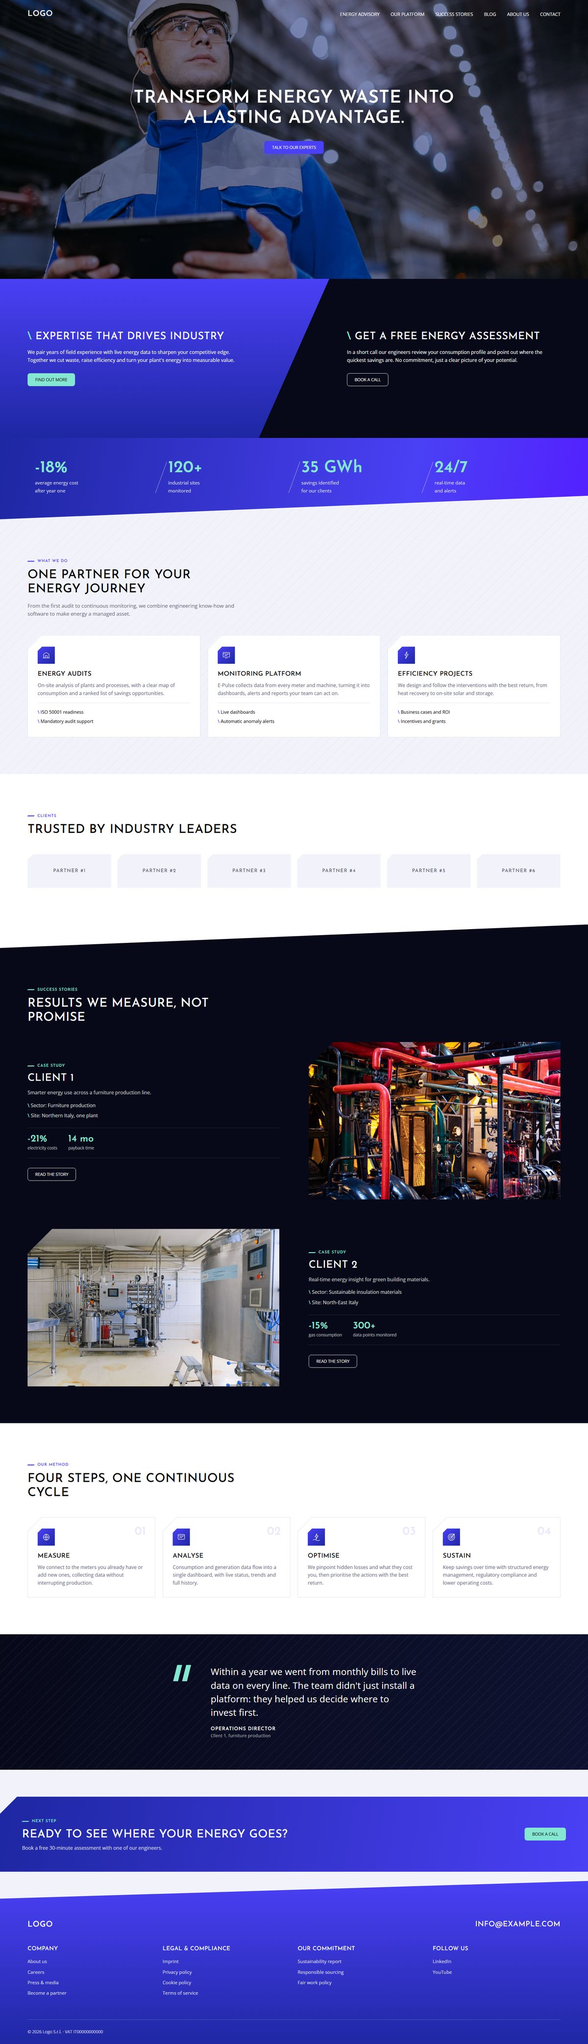
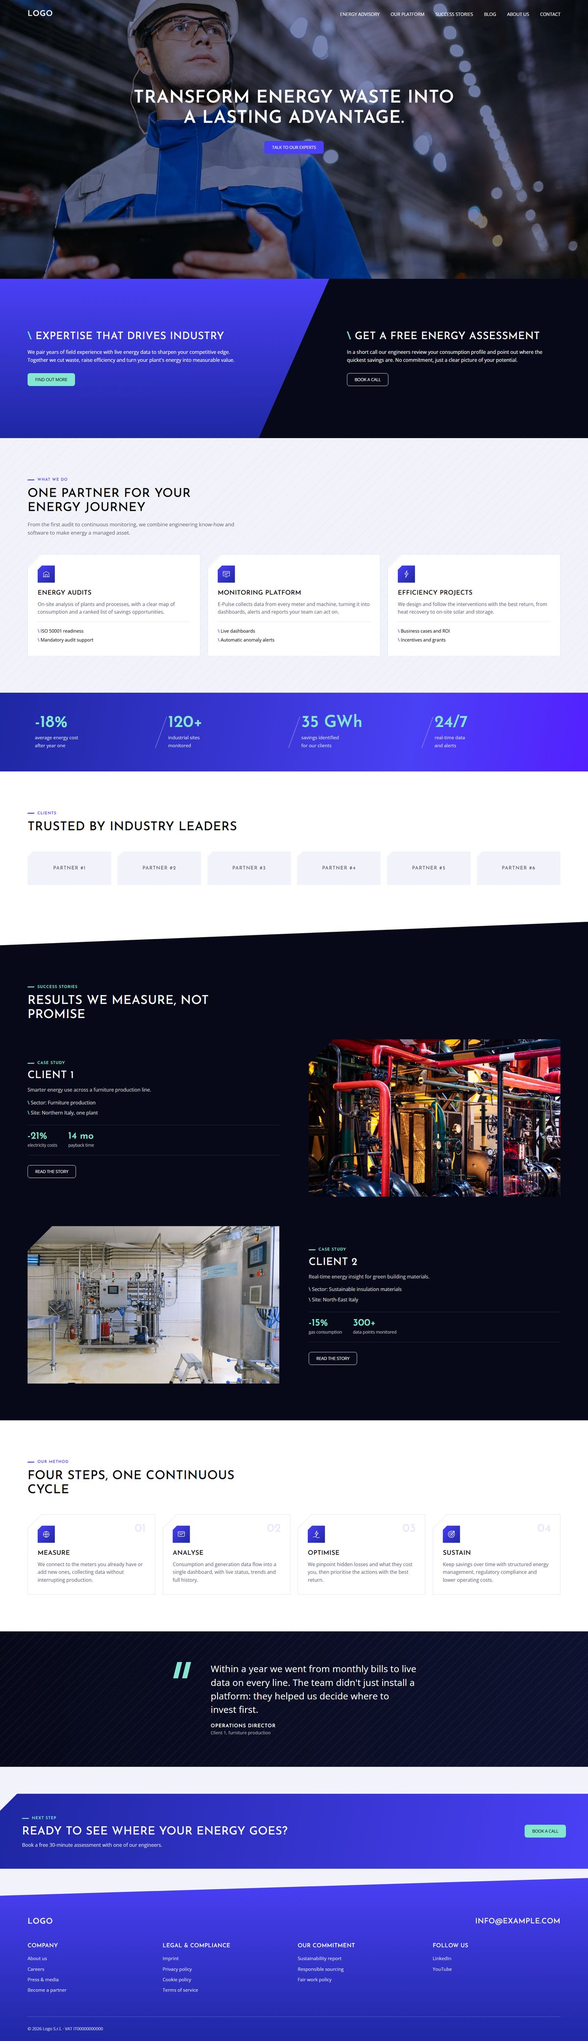
Industrial demo: key figures below services, straight band edges

diff --git a/energia/assets/css/main.css b/energia/assets/css/main.css
@@ -1,1 +1,1 @@
-*,*::before,*::after{box-sizing:border-box}html{scroll-behavior:smooth}body{margin:0;background:#fff;color:#000;font:400 16px/1.6 "Open Sans",system-ui,sans-serif;-webkit-font-smoothing:antialiased}img{display:block;max-width:100%;height:auto}a{color:inherit}p{margin:0 0 1em}h1,h2,h3{margin:0;font-family:"Josefin Sans",sans-serif;font-weight:500;text-transform:uppercase;letter-spacing:.02em;line-height:1.15}.btn{position:relative;z-index:0;display:inline-flex;align-items:center;overflow:hidden;padding:13px 24px;border:1px solid rgba(0,0,0,0);border-radius:8px;font:400 .85rem/1 "Open Sans",system-ui,sans-serif;text-transform:uppercase;text-decoration:none;transition:transform .3s ease,color .3s ease,background-color .3s ease,border-color .3s ease}.btn::before{content:"";position:absolute;inset:0;z-index:-1;background:linear-gradient(90deg, #85e6d1, #5420ff);opacity:0;transition:opacity .5s}.btn::after{display:inline-block;width:0;overflow:hidden;opacity:0;transition:width .3s ease,opacity .3s ease,transform .3s ease}.btn:hover{transform:scale(1.05)}.btn:hover::after{width:20px;opacity:1;transform:translateX(10px)}.btn--violet{background:#4a40f5;color:#fff;box-shadow:0 8px 20px rgba(74,64,245,.3)}.btn--violet:hover{color:#fff}.btn--violet:hover::before{opacity:1}.btn--teal{background:#85e6d1;color:#000}.btn--teal:hover{color:#fff}.btn--teal:hover::before{opacity:1}.btn--outline,.btn--ghost{border-color:#fff;background:rgba(0,0,0,0);color:#fff}.btn--outline::before,.btn--ghost::before{display:none}.btn--outline:hover,.btn--ghost:hover{border-color:#85e6d1;background:#85e6d1;color:#000}.slash::before{content:"\\ ";color:#85e6d1;font-weight:600}.slash--violet::before{color:#4a40f5}.kicker{display:block;margin-bottom:20px;font:600 .8rem/1 "Josefin Sans",sans-serif;letter-spacing:.04em;text-transform:uppercase;color:#85e6d1}.kicker--violet{color:#4a40f5;font-weight:400}.header{position:absolute;inset:0 0 auto;z-index:10;color:#fff}.header__inner{display:flex;align-items:center;justify-content:space-between;padding:28px clamp(20px,4.7vw,90px)}.header__toggle{display:flex;flex-direction:column;gap:5px;padding:10px;border:0;background:none;cursor:pointer}.header__toggle span{width:24px;height:2px;background:#fff}@media(min-width: 1100px){.header__toggle{display:none}}.header__nav{display:none;position:absolute;top:90px;left:0;right:0;flex-direction:column;padding:12px clamp(20px,4.7vw,90px) 20px;background:rgba(0,0,0,.92)}.header__nav.is-open{display:flex}@media(min-width: 1100px){.header__nav{display:flex;position:static;flex-direction:row;gap:36px;padding:0;background:none}}.header__nav a{padding:8px 0;font:400 .92rem "Open Sans",system-ui,sans-serif;text-transform:uppercase;text-decoration:none}.header__nav a:hover{color:#85e6d1}.logo{font:600 1.6rem/1 "Josefin Sans",sans-serif;letter-spacing:.04em;text-transform:uppercase;text-decoration:none}.hero{display:flex;flex-direction:column;align-items:center;justify-content:center;gap:40px;min-height:600px;padding:140px 20px 80px;text-align:center;color:#fff;background:linear-gradient(rgba(10, 30, 110, 0.55), rgba(10, 30, 110, 0.55)),url("../img/hero.jpg") center 30%/cover;background-blend-mode:multiply}@media(min-width: 1100px){.hero{min-height:910px;padding-bottom:260px}}.hero h1{font-size:clamp(2rem,4.2vw,3.6rem);font-weight:600;text-shadow:0 2px 20px rgba(0,0,0,.3)}.insight{display:grid;background:#070919}@media(min-width: 1100px){.insight{grid-template-columns:1fr 1fr;min-height:520px}}.insight__panel{display:flex;flex-direction:column;justify-content:center;align-items:flex-start;padding:64px clamp(20px,4.7vw,90px);background:linear-gradient(180deg, #4a40f5, #1e27a2);color:#fff}@media(min-width: 1100px){.insight__panel{grid-column:1/3;grid-row:1;width:56%;padding-right:calc(12% + 3vw);clip-path:polygon(0 0, 100% 0, 78.57% 100%, 0 100%)}}.insight__panel h2{margin-bottom:18px;font-size:clamp(1.5rem,2.2vw,2.1rem)}.insight__panel p{margin:0 0 30px;font-size:1rem}.insight__cta{display:flex;flex-direction:column;justify-content:center;align-items:flex-start;gap:28px;padding:56px clamp(20px,4.7vw,90px)}@media(min-width: 1100px){.insight__cta{grid-column:1/3;grid-row:1;padding:0 clamp(20px,4.7vw,90px) 0 calc(56% + 3vw)}}.insight__cta{color:#fff}.insight__cta h2{font-size:clamp(1.5rem,2.2vw,2.1rem)}.insight__cta p{margin:-10px 0 2px;font-size:1rem}.wrap{width:100%;max-width:1920px;margin:0 auto;padding:0 clamp(20px,4.7vw,90px)}.section{position:relative;padding:88px 0}@media(min-width: 1100px){.section{padding:120px 0}}.section--mist{background:repeating-linear-gradient(135deg, rgba(74, 64, 245, 0.035) 0 2px, transparent 2px 22px),#f2f3fa}.section--dark{background:#070919;color:#fff}.head{max-width:720px;margin-bottom:56px}.head h2{font-size:clamp(1.7rem,2.6vw,2.5rem)}.head h2+p{margin:18px 0 0;color:#5b6078;font-size:1.05rem}.section--dark .head h2+p{color:rgba(255,255,255,.7)}.head--row{display:flex;flex-wrap:wrap;align-items:flex-end;justify-content:space-between;gap:16px;max-width:none}.kicker{display:inline-flex;align-items:center;gap:10px;margin-bottom:16px;color:#4a40f5;font-weight:600;letter-spacing:.08em}.kicker::before{content:"";width:22px;height:3px;background:currentColor;transform:skewX(-35deg)}.section--dark .kicker,.kicker--teal{color:#85e6d1}.grid{display:grid;gap:24px}@media(min-width: 768px){.grid--3{grid-template-columns:repeat(2, 1fr)}}@media(min-width: 1100px){.grid--3{grid-template-columns:repeat(3, 1fr)}}@media(min-width: 768px){.grid--4{grid-template-columns:repeat(2, 1fr)}}@media(min-width: 1100px){.grid--4{grid-template-columns:repeat(4, 1fr)}}.stats{position:relative;z-index:1;margin-top:-1px;padding:72px 0 80px;background:linear-gradient(100deg, #1e27a2, #4a40f5 70%, #5420ff);color:#fff;clip-path:polygon(0 0, 100% 0, 100% calc(100% - 4vw), 0 100%)}.stats__grid{display:grid;grid-template-columns:repeat(2, 1fr);gap:36px 0}@media(min-width: 1100px){.stats__grid{grid-template-columns:repeat(4, 1fr)}}.stat{position:relative;padding:0 24px}.stat+.stat::before{content:"";position:absolute;left:0;top:6px;bottom:6px;width:2px;background:rgba(255,255,255,.35);transform:skewX(-20deg)}@media(max-width: 1099px){.stat:nth-child(3)::before{display:none}}.stat strong{display:block;margin-bottom:8px;font:600 clamp(2.2rem, 3.6vw, 3.4rem)/1 "Josefin Sans",sans-serif;color:#85e6d1}.stat span{font-size:.95rem;color:rgba(255,255,255,.85)}.stats+.section{margin-top:-4vw;padding-top:calc(88px + 4vw)}@media(min-width: 1100px){.stats+.section{padding-top:calc(120px + 4vw)}}.tile,.step{position:relative;padding:36px 32px 34px;border:1px solid #dfe1ef;background:#fff;clip-path:polygon(44px 0, 100% 0, 100% 100%, 0 100%, 0 44px);transition:transform .3s ease,box-shadow .3s ease}.tile::before,.step::before{content:"";position:absolute;top:0;left:0;width:62.216px;height:1px;background:#dfe1ef;transform:rotate(-45deg);transform-origin:0 0;translate:0 44px}.tile::after,.step::after{content:"";position:absolute;top:0;left:44px;right:0;height:3px;background:linear-gradient(90deg, #4a40f5, #85e6d1);transform:scaleX(0);transform-origin:left;transition:transform .4s ease}.tile:hover,.step:hover{transform:translateY(-4px);box-shadow:0 18px 40px rgba(30,39,162,.12)}.tile:hover::after,.step:hover::after{transform:scaleX(1)}.tile h3,.step h3{margin:22px 0 12px;font-size:1.3rem}.tile p,.step p{margin:0;color:#5b6078}.tile ul,.step ul{margin:18px 0 0;padding:18px 0 0;border-top:1px solid #dfe1ef;list-style:none;font-size:.92rem}.tile ul li,.step ul li{margin-bottom:6px}.tile ul li::before,.step ul li::before{content:"\\ ";color:#4a40f5;font-weight:700}.tile__icon{display:grid;place-items:center;width:56px;height:56px;background:linear-gradient(135deg, #4a40f5, #1e27a2);clip-path:polygon(14px 0, 100% 0, 100% 100%, 0 100%, 0 14px)}.tile__icon svg{width:28px;height:28px;fill:none;stroke:#fff;stroke-width:1.6;stroke-linecap:round;stroke-linejoin:round}.step__num{position:absolute;top:28px;right:30px;font:600 2.4rem/1 "Josefin Sans",sans-serif;color:rgba(74,64,245,.14)}.clients__grid{display:grid;grid-template-columns:repeat(2, 1fr);gap:20px;margin:0;padding:0;list-style:none}@media(min-width: 768px){.clients__grid{grid-template-columns:repeat(3, 1fr)}}@media(min-width: 1100px){.clients__grid{grid-template-columns:repeat(6, 1fr)}}.partner{display:grid;place-items:center;aspect-ratio:5/2;background:#f2f3fa;font:500 1rem/1 "Josefin Sans",sans-serif;letter-spacing:.08em;text-transform:uppercase;color:#5b6078;clip-path:polygon(18px 0, 100% 0, 100% 100%, 0 100%, 0 18px);transition:background-color .3s ease,color .3s ease}.partner:hover{background:#4a40f5;color:#fff}.cases{clip-path:polygon(0 4vw, 100% 0, 100% 100%, 0 100%);padding-top:calc(88px + 4vw)}@media(min-width: 1100px){.cases{padding-top:calc(120px + 4vw)}}.case{display:grid;gap:36px;align-items:center}.case+.case{margin-top:96px}@media(min-width: 1100px){.case{grid-template-columns:1fr 1fr;gap:96px}}.case h3{margin-bottom:14px;font-size:2.1rem}.case p{color:rgba(255,255,255,.8)}.case__facts{margin:0 0 26px;padding:0;list-style:none}.case__facts li{margin-bottom:8px;color:rgba(255,255,255,.85)}.case__facts li::before{content:"\\ ";color:#85e6d1;font-weight:700}.case__metrics{display:flex;gap:36px;margin-bottom:32px;padding:20px 0;border-top:1px solid rgba(255,255,255,.15);border-bottom:1px solid rgba(255,255,255,.15)}.case__metrics strong{display:block;font:600 2rem/1 "Josefin Sans",sans-serif;color:#85e6d1}.case__metrics span{font-size:.85rem;color:rgba(255,255,255,.7)}.case__img{width:100%;aspect-ratio:16/10;object-fit:cover;clip-path:polygon(80px 0, 100% 0, 100% 100%, 0 100%, 0 80px)}@media(min-width: 1100px){.case--reverse .case__text{order:2}}.process{background:#fff}.quote{padding:100px 0;background:repeating-linear-gradient(135deg, rgba(255, 255, 255, 0.05) 0 2px, transparent 2px 22px),linear-gradient(100deg, #070919, #0e1230);color:#fff}.quote__inner{display:grid;gap:28px;max-width:980px}@media(min-width: 1100px){.quote__inner{grid-template-columns:80px 1fr;gap:48px}}.quote__mark{width:64px;fill:#85e6d1}.quote blockquote{margin:0}.quote p{margin:0 0 24px;font:400 clamp(1.3rem, 2.2vw, 1.9rem)/1.45 "Open Sans",system-ui,sans-serif}.quote footer{display:grid;gap:2px}.quote footer strong{font:600 1rem "Josefin Sans",sans-serif;text-transform:uppercase;letter-spacing:.06em}.quote footer span{color:rgba(255,255,255,.65);font-size:.9rem}.cta-band{padding:88px 0;background:#f2f3fa}.cta-band__inner{display:grid;gap:28px;align-items:center;padding:56px clamp(20px,4.7vw,90px);background:linear-gradient(100deg, #1e27a2, #4a40f5);color:#fff;clip-path:polygon(56px 0, 100% 0, 100% 100%, 0 100%, 0 56px)}@media(min-width: 1100px){.cta-band__inner{grid-template-columns:1fr auto;padding:64px 72px}}.cta-band__inner h2{margin-bottom:10px;font-size:clamp(1.6rem,2.4vw,2.3rem)}.cta-band__inner p{margin:0;color:rgba(255,255,255,.85)}span.btn{cursor:default}.footer{padding:calc(72px + 3vw) 0 40px;background:linear-gradient(180deg, #4a40f5, #1e27a2);color:#fff;clip-path:polygon(0 3vw, 100% 0, 100% 100%, 0 100%);margin-top:-3vw}.footer__top{display:flex;flex-wrap:wrap;align-items:center;justify-content:space-between;gap:20px;margin-bottom:56px}.footer__mail{font:500 clamp(1.1rem, 1.6vw, 1.5rem)/1 "Josefin Sans",sans-serif;text-transform:uppercase;letter-spacing:.03em}.footer__cols{display:grid;gap:40px 24px}@media(min-width: 768px){.footer__cols{grid-template-columns:repeat(2, 1fr)}}@media(min-width: 1100px){.footer__cols{grid-template-columns:repeat(4, 1fr)}}.footer__cols h2{margin-bottom:18px;font-size:1.15rem;font-weight:500}.footer__cols ul{margin:0;padding:0;list-style:none}.footer__cols li{margin-bottom:10px;font-size:.95rem;color:rgba(255,255,255,.85)}.footer__bottom{margin-top:64px;padding-top:28px;border-top:1px solid rgba(255,255,255,.25)}.footer__bottom p{margin:0;font-size:.85rem;color:rgba(255,255,255,.8)}nav a:not([href]){cursor:default}.tile,.step,.partner{cursor:pointer}
+*,*::before,*::after{box-sizing:border-box}html{scroll-behavior:smooth}body{margin:0;background:#fff;color:#000;font:400 16px/1.6 "Open Sans",system-ui,sans-serif;-webkit-font-smoothing:antialiased}img{display:block;max-width:100%;height:auto}a{color:inherit}p{margin:0 0 1em}h1,h2,h3{margin:0;font-family:"Josefin Sans",sans-serif;font-weight:500;text-transform:uppercase;letter-spacing:.02em;line-height:1.15}.btn{position:relative;z-index:0;display:inline-flex;align-items:center;overflow:hidden;padding:13px 24px;border:1px solid rgba(0,0,0,0);border-radius:8px;font:400 .85rem/1 "Open Sans",system-ui,sans-serif;text-transform:uppercase;text-decoration:none;transition:transform .3s ease,color .3s ease,background-color .3s ease,border-color .3s ease}.btn::before{content:"";position:absolute;inset:0;z-index:-1;background:linear-gradient(90deg, #85e6d1, #5420ff);opacity:0;transition:opacity .5s}.btn::after{display:inline-block;width:0;overflow:hidden;opacity:0;transition:width .3s ease,opacity .3s ease,transform .3s ease}.btn:hover{transform:scale(1.05)}.btn:hover::after{width:20px;opacity:1;transform:translateX(10px)}.btn--violet{background:#4a40f5;color:#fff;box-shadow:0 8px 20px rgba(74,64,245,.3)}.btn--violet:hover{color:#fff}.btn--violet:hover::before{opacity:1}.btn--teal{background:#85e6d1;color:#000}.btn--teal:hover{color:#fff}.btn--teal:hover::before{opacity:1}.btn--outline,.btn--ghost{border-color:#fff;background:rgba(0,0,0,0);color:#fff}.btn--outline::before,.btn--ghost::before{display:none}.btn--outline:hover,.btn--ghost:hover{border-color:#85e6d1;background:#85e6d1;color:#000}.slash::before{content:"\\ ";color:#85e6d1;font-weight:600}.slash--violet::before{color:#4a40f5}.kicker{display:block;margin-bottom:20px;font:600 .8rem/1 "Josefin Sans",sans-serif;letter-spacing:.04em;text-transform:uppercase;color:#85e6d1}.kicker--violet{color:#4a40f5;font-weight:400}.header{position:absolute;inset:0 0 auto;z-index:10;color:#fff}.header__inner{display:flex;align-items:center;justify-content:space-between;padding:28px clamp(20px,4.7vw,90px)}.header__toggle{display:flex;flex-direction:column;gap:5px;padding:10px;border:0;background:none;cursor:pointer}.header__toggle span{width:24px;height:2px;background:#fff}@media(min-width: 1100px){.header__toggle{display:none}}.header__nav{display:none;position:absolute;top:90px;left:0;right:0;flex-direction:column;padding:12px clamp(20px,4.7vw,90px) 20px;background:rgba(0,0,0,.92)}.header__nav.is-open{display:flex}@media(min-width: 1100px){.header__nav{display:flex;position:static;flex-direction:row;gap:36px;padding:0;background:none}}.header__nav a{padding:8px 0;font:400 .92rem "Open Sans",system-ui,sans-serif;text-transform:uppercase;text-decoration:none}.header__nav a:hover{color:#85e6d1}.logo{font:600 1.6rem/1 "Josefin Sans",sans-serif;letter-spacing:.04em;text-transform:uppercase;text-decoration:none}.hero{display:flex;flex-direction:column;align-items:center;justify-content:center;gap:40px;min-height:600px;padding:140px 20px 80px;text-align:center;color:#fff;background:linear-gradient(rgba(10, 30, 110, 0.55), rgba(10, 30, 110, 0.55)),url("../img/hero.jpg") center 30%/cover;background-blend-mode:multiply}@media(min-width: 1100px){.hero{min-height:910px;padding-bottom:260px}}.hero h1{font-size:clamp(2rem,4.2vw,3.6rem);font-weight:600;text-shadow:0 2px 20px rgba(0,0,0,.3)}.insight{display:grid;background:#070919}@media(min-width: 1100px){.insight{grid-template-columns:1fr 1fr;min-height:520px}}.insight__panel{display:flex;flex-direction:column;justify-content:center;align-items:flex-start;padding:64px clamp(20px,4.7vw,90px);background:linear-gradient(180deg, #4a40f5, #1e27a2);color:#fff}@media(min-width: 1100px){.insight__panel{grid-column:1/3;grid-row:1;width:56%;padding-right:calc(12% + 3vw);clip-path:polygon(0 0, 100% 0, 78.57% 100%, 0 100%)}}.insight__panel h2{margin-bottom:18px;font-size:clamp(1.5rem,2.2vw,2.1rem)}.insight__panel p{margin:0 0 30px;font-size:1rem}.insight__cta{display:flex;flex-direction:column;justify-content:center;align-items:flex-start;gap:28px;padding:56px clamp(20px,4.7vw,90px)}@media(min-width: 1100px){.insight__cta{grid-column:1/3;grid-row:1;padding:0 clamp(20px,4.7vw,90px) 0 calc(56% + 3vw)}}.insight__cta{color:#fff}.insight__cta h2{font-size:clamp(1.5rem,2.2vw,2.1rem)}.insight__cta p{margin:-10px 0 2px;font-size:1rem}.wrap{width:100%;max-width:1920px;margin:0 auto;padding:0 clamp(20px,4.7vw,90px)}.section{position:relative;padding:88px 0}@media(min-width: 1100px){.section{padding:120px 0}}.section--mist{background:repeating-linear-gradient(135deg, rgba(74, 64, 245, 0.035) 0 2px, transparent 2px 22px),#f2f3fa}.section--dark{background:#070919;color:#fff}.head{max-width:720px;margin-bottom:56px}.head h2{font-size:clamp(1.7rem,2.6vw,2.5rem)}.head h2+p{margin:18px 0 0;color:#5b6078;font-size:1.05rem}.section--dark .head h2+p{color:rgba(255,255,255,.7)}.head--row{display:flex;flex-wrap:wrap;align-items:flex-end;justify-content:space-between;gap:16px;max-width:none}.kicker{display:inline-flex;align-items:center;gap:10px;margin-bottom:16px;color:#4a40f5;font-weight:600;letter-spacing:.08em}.kicker::before{content:"";width:22px;height:3px;background:currentColor;transform:skewX(-35deg)}.section--dark .kicker,.kicker--teal{color:#85e6d1}.grid{display:grid;gap:24px}@media(min-width: 768px){.grid--3{grid-template-columns:repeat(2, 1fr)}}@media(min-width: 1100px){.grid--3{grid-template-columns:repeat(3, 1fr)}}@media(min-width: 768px){.grid--4{grid-template-columns:repeat(2, 1fr)}}@media(min-width: 1100px){.grid--4{grid-template-columns:repeat(4, 1fr)}}.stats{position:relative;z-index:1;margin-top:-1px;padding:72px 0;background:linear-gradient(100deg, #1e27a2, #4a40f5 70%, #5420ff);color:#fff}.stats__grid{display:grid;grid-template-columns:repeat(2, 1fr);gap:36px 0}@media(min-width: 1100px){.stats__grid{grid-template-columns:repeat(4, 1fr)}}.stat{position:relative;padding:0 24px}.stat+.stat::before{content:"";position:absolute;left:0;top:6px;bottom:6px;width:2px;background:rgba(255,255,255,.35);transform:skewX(-20deg)}@media(max-width: 1099px){.stat:nth-child(3)::before{display:none}}.stat strong{display:block;margin-bottom:8px;font:600 clamp(2.2rem, 3.6vw, 3.4rem)/1 "Josefin Sans",sans-serif;color:#85e6d1}.stat span{font-size:.95rem;color:rgba(255,255,255,.85)}.tile,.step{position:relative;padding:36px 32px 34px;border:1px solid #dfe1ef;background:#fff;clip-path:polygon(44px 0, 100% 0, 100% 100%, 0 100%, 0 44px);transition:transform .3s ease,box-shadow .3s ease}.tile::before,.step::before{content:"";position:absolute;top:0;left:0;width:62.216px;height:1px;background:#dfe1ef;transform:rotate(-45deg);transform-origin:0 0;translate:0 44px}.tile::after,.step::after{content:"";position:absolute;top:0;left:44px;right:0;height:3px;background:linear-gradient(90deg, #4a40f5, #85e6d1);transform:scaleX(0);transform-origin:left;transition:transform .4s ease}.tile:hover,.step:hover{transform:translateY(-4px);box-shadow:0 18px 40px rgba(30,39,162,.12)}.tile:hover::after,.step:hover::after{transform:scaleX(1)}.tile h3,.step h3{margin:22px 0 12px;font-size:1.3rem}.tile p,.step p{margin:0;color:#5b6078}.tile ul,.step ul{margin:18px 0 0;padding:18px 0 0;border-top:1px solid #dfe1ef;list-style:none;font-size:.92rem}.tile ul li,.step ul li{margin-bottom:6px}.tile ul li::before,.step ul li::before{content:"\\ ";color:#4a40f5;font-weight:700}.tile__icon{display:grid;place-items:center;width:56px;height:56px;background:linear-gradient(135deg, #4a40f5, #1e27a2);clip-path:polygon(14px 0, 100% 0, 100% 100%, 0 100%, 0 14px)}.tile__icon svg{width:28px;height:28px;fill:none;stroke:#fff;stroke-width:1.6;stroke-linecap:round;stroke-linejoin:round}.step__num{position:absolute;top:28px;right:30px;font:600 2.4rem/1 "Josefin Sans",sans-serif;color:rgba(74,64,245,.14)}.clients__grid{display:grid;grid-template-columns:repeat(2, 1fr);gap:20px;margin:0;padding:0;list-style:none}@media(min-width: 768px){.clients__grid{grid-template-columns:repeat(3, 1fr)}}@media(min-width: 1100px){.clients__grid{grid-template-columns:repeat(6, 1fr)}}.partner{display:grid;place-items:center;aspect-ratio:5/2;background:#f2f3fa;font:500 1rem/1 "Josefin Sans",sans-serif;letter-spacing:.08em;text-transform:uppercase;color:#5b6078;clip-path:polygon(18px 0, 100% 0, 100% 100%, 0 100%, 0 18px);transition:background-color .3s ease,color .3s ease}.partner:hover{background:#4a40f5;color:#fff}.cases{clip-path:polygon(0 4vw, 100% 0, 100% 100%, 0 100%);padding-top:calc(88px + 4vw)}@media(min-width: 1100px){.cases{padding-top:calc(120px + 4vw)}}.case{display:grid;gap:36px;align-items:center}.case+.case{margin-top:96px}@media(min-width: 1100px){.case{grid-template-columns:1fr 1fr;gap:96px}}.case h3{margin-bottom:14px;font-size:2.1rem}.case p{color:rgba(255,255,255,.8)}.case__facts{margin:0 0 26px;padding:0;list-style:none}.case__facts li{margin-bottom:8px;color:rgba(255,255,255,.85)}.case__facts li::before{content:"\\ ";color:#85e6d1;font-weight:700}.case__metrics{display:flex;gap:36px;margin-bottom:32px;padding:20px 0;border-top:1px solid rgba(255,255,255,.15);border-bottom:1px solid rgba(255,255,255,.15)}.case__metrics strong{display:block;font:600 2rem/1 "Josefin Sans",sans-serif;color:#85e6d1}.case__metrics span{font-size:.85rem;color:rgba(255,255,255,.7)}.case__img{width:100%;aspect-ratio:16/10;object-fit:cover;clip-path:polygon(80px 0, 100% 0, 100% 100%, 0 100%, 0 80px)}@media(min-width: 1100px){.case--reverse .case__text{order:2}}.process{background:#fff}.quote{padding:100px 0;background:repeating-linear-gradient(135deg, rgba(255, 255, 255, 0.05) 0 2px, transparent 2px 22px),linear-gradient(100deg, #070919, #0e1230);color:#fff}.quote__inner{display:grid;gap:28px;max-width:980px}@media(min-width: 1100px){.quote__inner{grid-template-columns:80px 1fr;gap:48px}}.quote__mark{width:64px;fill:#85e6d1}.quote blockquote{margin:0}.quote p{margin:0 0 24px;font:400 clamp(1.3rem, 2.2vw, 1.9rem)/1.45 "Open Sans",system-ui,sans-serif}.quote footer{display:grid;gap:2px}.quote footer strong{font:600 1rem "Josefin Sans",sans-serif;text-transform:uppercase;letter-spacing:.06em}.quote footer span{color:rgba(255,255,255,.65);font-size:.9rem}.cta-band{padding:88px 0;background:#f2f3fa}.cta-band__inner{display:grid;gap:28px;align-items:center;padding:56px clamp(20px,4.7vw,90px);background:linear-gradient(100deg, #1e27a2, #4a40f5);color:#fff;clip-path:polygon(56px 0, 100% 0, 100% 100%, 0 100%, 0 56px)}@media(min-width: 1100px){.cta-band__inner{grid-template-columns:1fr auto;padding:64px 72px}}.cta-band__inner h2{margin-bottom:10px;font-size:clamp(1.6rem,2.4vw,2.3rem)}.cta-band__inner p{margin:0;color:rgba(255,255,255,.85)}span.btn{cursor:default}.footer{padding:calc(72px + 3vw) 0 40px;background:linear-gradient(180deg, #4a40f5, #1e27a2);color:#fff;clip-path:polygon(0 3vw, 100% 0, 100% 100%, 0 100%);margin-top:-3vw}.footer__top{display:flex;flex-wrap:wrap;align-items:center;justify-content:space-between;gap:20px;margin-bottom:56px}.footer__mail{font:500 clamp(1.1rem, 1.6vw, 1.5rem)/1 "Josefin Sans",sans-serif;text-transform:uppercase;letter-spacing:.03em}.footer__cols{display:grid;gap:40px 24px}@media(min-width: 768px){.footer__cols{grid-template-columns:repeat(2, 1fr)}}@media(min-width: 1100px){.footer__cols{grid-template-columns:repeat(4, 1fr)}}.footer__cols h2{margin-bottom:18px;font-size:1.15rem;font-weight:500}.footer__cols ul{margin:0;padding:0;list-style:none}.footer__cols li{margin-bottom:10px;font-size:.95rem;color:rgba(255,255,255,.85)}.footer__bottom{margin-top:64px;padding-top:28px;border-top:1px solid rgba(255,255,255,.25)}.footer__bottom p{margin:0;font-size:.85rem;color:rgba(255,255,255,.8)}nav a:not([href]){cursor:default}.tile,.step,.partner{cursor:pointer}

diff --git a/energia/index.html b/energia/index.html
@@ -46,15 +46,6 @@
       </div>
     </section>
 
-    <section class="stats" aria-label="Key figures">
-      <div class="wrap stats__grid">
-        <div class="stat"><strong>-18%</strong><span>average energy cost<br>after year one</span></div>
-        <div class="stat"><strong>120+</strong><span>industrial sites<br>monitored</span></div>
-        <div class="stat"><strong>35 GWh</strong><span>savings identified<br>for our clients</span></div>
-        <div class="stat"><strong>24/7</strong><span>real-time data<br>and alerts</span></div>
-      </div>
-    </section>
-
     <section class="section section--mist" id="services">
       <div class="wrap">
         <header class="head">
@@ -82,6 +73,15 @@
             <ul><li>Business cases and ROI</li><li>Incentives and grants</li></ul>
           </article>
         </div>
+      </div>
+    </section>
+
+    <section class="stats" aria-label="Key figures">
+      <div class="wrap stats__grid">
+        <div class="stat"><strong>-18%</strong><span>average energy cost<br>after year one</span></div>
+        <div class="stat"><strong>120+</strong><span>industrial sites<br>monitored</span></div>
+        <div class="stat"><strong>35 GWh</strong><span>savings identified<br>for our clients</span></div>
+        <div class="stat"><strong>24/7</strong><span>real-time data<br>and alerts</span></div>
       </div>
     </section>
 

diff --git a/energia/assets/scss/main.scss b/energia/assets/scss/main.scss
@@ -266,10 +266,9 @@ h1, h2, h3 { margin: 0; font-family: $head; font-weight: 500; text-transform: up
   position: relative;
   z-index: 1;
   margin-top: -1px;
-  padding: 72px 0 80px;
+  padding: 72px 0;
   background: linear-gradient(100deg, $violet-dark, $violet 70%, #5420ff);
   color: $white;
-  clip-path: polygon(0 0, 100% 0, 100% calc(100% - 4vw), 0 100%);
 
   &__grid {
     display: grid;
@@ -301,9 +300,6 @@ h1, h2, h3 { margin: 0; font-family: $head; font-weight: 500; text-transform: up
   strong { display: block; margin-bottom: 8px; font: 600 clamp(2.2rem, 3.6vw, 3.4rem)/1 $head; color: $teal; }
   span { font-size: .95rem; color: rgba($white, .85); }
 }
-
-// the section after the angled band slides underneath it (no white wedge)
-.stats + .section { margin-top: -4vw; padding-top: calc(88px + 4vw); @include lg { padding-top: calc(120px + 4vw); } }
 
 // ---------- tiles (services) and steps (process) share one card ----------
 .tile,

diff --git a/index.html b/index.html
@@ -72,7 +72,7 @@
 
       <li class="project">
         <button class="project__preview" type="button" data-full="assets/img/energia.jpg" data-site="energia/" aria-label="Apri il sito: Sito corporate industriale">
-          <img src="assets/img/energia.jpg" alt="Anteprima homepage di una società di efficienza energetica" loading="lazy" width="1200" height="4169">
+          <img src="assets/img/energia.jpg" alt="Anteprima homepage di una società di efficienza energetica" loading="lazy" width="1200" height="4164">
         </button>
         <div class="project__info">
           <span class="project__index">04</span>
